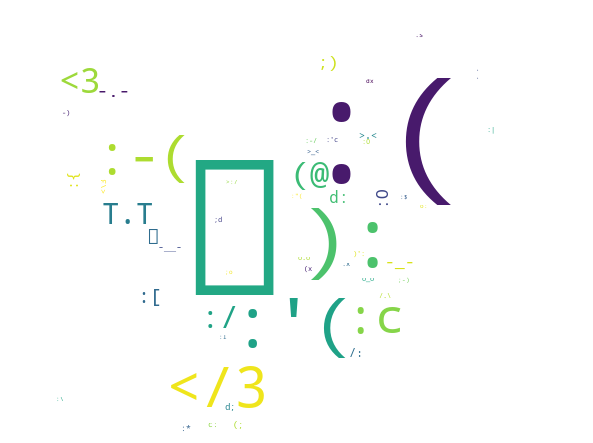
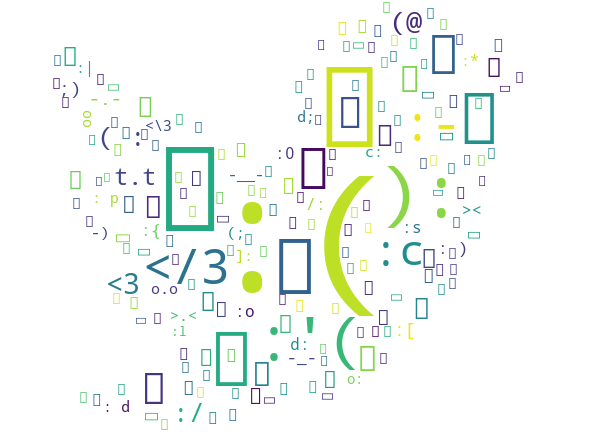
Ultimata la procedura di map reduce in mongo db + salvataggio conteggi

diff --git a/Codice/Master/tweet_processing.py b/Codice/Master/tweet_processing.py
@@ -5,6 +5,37 @@ from nltk import word_tokenize, pos_tag
 from nltk.corpus import wordnet
 import emoji
 
+#punctuations
+def get_punctuations():
+    custom_punctuations = punctuations
+    custom_punctuations.append('–')
+    custom_punctuations.append('—')
+    custom_punctuations.append('–')
+    custom_punctuations.append('¿')
+    custom_punctuations.append('؟')
+    custom_punctuations.append('…')
+    custom_punctuations.append('‘')
+    custom_punctuations.append('’')
+    custom_punctuations.append('“')
+    custom_punctuations.append('”')
+    custom_punctuations.append('«')
+    custom_punctuations.append('»')
+    custom_punctuations.append('§')
+    custom_punctuations.append('©')
+    custom_punctuations.append('*')
+    custom_punctuations.append('^')
+    custom_punctuations.append('%')
+    custom_punctuations.append('#')
+    custom_punctuations.append('•')
+    custom_punctuations.append('|')
+    custom_punctuations.append('~')
+    custom_punctuations.append(',')
+    custom_punctuations.append('.')
+
+    return custom_punctuations
+
+
+custom_punctuations = get_punctuations()
 lemmatizer = WordNetLemmatizer()
 
 client_master = None
@@ -21,7 +52,7 @@ def remove_nick_and_url(line):
 
 
 def remove_punctuation(line):
-    for punctuation in punctuations:
+    for punctuation in custom_punctuations:
         # l'apice, dato che potrebbe essere parte integrante di una parola, va gestito in maniera differente
         if punctuation != "'":
             line = line.replace(punctuation, " ")
@@ -30,11 +61,8 @@ def remove_punctuation(line):
     line = line.replace("'s ", " ")
     line = line.replace(" '", " ")
 
-    return line
-
-
-def remove_digits(line):
-    return ''.join(" " if c.isdigit() else c for c in line)
+    #remove digits
+    return ''.join(c for c in line if not c.isdigit())
 
 
 def substitute_slangs(line, slang_dict):
@@ -54,6 +82,10 @@ def substitute_slangs(line, slang_dict):
 def substitute_contractions(line):
     for contraction in contractions:
         line = line.replace(" " + contraction + " ", " " + contractions[contraction] + " ")
+
+    #do a second swipe
+    for contraction in contractions:
+        line = line.replace(contraction, contractions[contraction])
 
     return line
 
@@ -124,17 +156,15 @@ def process_tweet(line, emoticon_list, slang_dict, stop_word_list):
     line_emoticon_list.extend(standard_emoji_list)
     del standard_emoji_list
 
-    #todo come gestire i negativi?
-    #come gestire i verbi composti ? (fired up)
-    line = remove_punctuation(line)
-    line = remove_digits(line)
-    line = line.lower()
+    line = remove_punctuation(line).lower()
 
     line = substitute_contractions(line)
     line = substitute_slangs(line, slang_dict)
+    line = line.replace("'", " ")
 
     tokens = word_tokenize(line)
     lemmas = lemmatize_tokens(tokens)
+
     lemmas = [word for word in lemmas if word not in stop_word_list]
 
     #print(tokens)

diff --git a/Codice/Master/create_clouds.py b/Codice/Master/create_clouds.py
@@ -20,26 +20,35 @@ def print_cloud(frequency_list, path, width, height):
 
 def make_clouds(setting_data, dbms):
     if dbms == 1:
+
         mongos_data = setting_data
         client_master = pymongo.MongoClient(mongos_data["Address"], mongos_data["Port"])
         db = client_master['TwitterEmotions']
         col = db.WordCount
-        emotion_list = []
+
+        emotion_list = {}
         for document in col.find({}):
-            emotion_list.append({"Emotion": document["_id"], "Words": document["values"]})
+            emotion = document["_id"]['Emotion']
+
+            if emotion not in emotion_list:
+                emotion_list[emotion] = []
+
+            emotion_list[emotion].append(document)
+
         for emotion in emotion_list:
             words = {}
             total = 0
-            for word in emotion["Words"]:
-                if int(word['count']) >= 5:
-                    words.update({word['word']: int(word['count'])})
-                    total += int(word['count'])
+            for word in emotion_list[emotion]:
+                if int(word['Count']) >= 5:
+                    words.update({word['_id']['Word']: int(word['Count'])})
+                    total += int(word['Count'])
             for key in words:
                 words.update({key: int(words[key]) / total})
 
-            print_cloud(words, "words_" + emotion["Emotion"], 1000, 1000)
-            print("Generata word cloud delle parole per l'emozione " + emotion["Emotion"])
+            print_cloud(words, "words_" + emotion, 1000, 1000)
+            print("Generata word cloud delle parole per l'emozione " + emotion)
 
+        #hashtag
         col = db.HashtagCount
         emotion_list = []
         for document in col.find({}):
@@ -57,6 +66,7 @@ def make_clouds(setting_data, dbms):
             print_cloud(hashtags, "hashtags_" + emotion["Emotion"], 1000, 1000)
             print("Generata word cloud degli hashtag per l'emozione " + emotion["Emotion"])
 
+        #emoticons
         col = db.EmoticonCount
         emotion_list = []
         for document in col.find({}):

diff --git a/Codice/Master/mongo_db_utils.py b/Codice/Master/mongo_db_utils.py
@@ -2,6 +2,7 @@ import pymongo, json
 import tweet_processing as tp
 import resource_initializer as ri
 
+
 def preprocess_all_tweets(ShardAddress, ShardPort):
 
     #get mongos data
@@ -89,23 +90,29 @@ def findTweet(col):
 
 
 
-def initialise_cluster(mongos_data):
+def initialise_cluster(mongos_data, skip_tweets = True):
 
     client_master = pymongo.MongoClient(mongos_data["Address"], mongos_data["Port"])
     db = client_master["TwitterEmotions"]
 
     print('Inserting neg words')
     load_negative_word(db)
+
     print('Inserting slang')
     load_slang(db)
+
     print('Inserting stop words')
     load_stopwords(db)
+
     print('Inserting emoji and emoticons')
     load_emojii_emoticon(db)
-    print('Inserting tweets')
-    load_tweet(db)
+
+    if not skip_tweets:
+        print('Inserting tweets')
+        load_tweet(db)
+
     print('Inserting word resources')
-    load_emotions(db)
+    load_resources(db)
 
 
 
@@ -158,26 +165,24 @@ def load_tweet(db):
     col.insert_many(tweets)
 
 
-def load_emotions(db):
+def load_resources(db):
 
-    col = db.WordResources
+    col = db.WordCount
     col.delete_many({})
 
-    word_counts = {}
+    word_counts = []
     for row in ri.load_emotions():
 
         emotion = row[0]
-        if emotion not in word_counts:
-            word_counts[emotion] = []
 
-        word_counts[emotion].append({'Word': row[1], 'Count': 0, "FlagEmoSN": row[2],
+        word_counts.append({"_id" : {"Emotion" : emotion, 'Word': row[1] }, 'Count': 0, "FlagEmoSN": row[2],
                       "FlagNRC": row[3], "FlagSentisense": row[4]})
 
-    documents = []
-    for key in word_counts:
-        documents.append({"Emotion": key, "Words": word_counts[key]})
+    #documents = []
+    #for key in word_counts:
+    #    documents.append({"Emotion": key, "Words": word_counts[key]})
 
-    col.insert_many(documents)
+    col.insert_many(word_counts)
 
 
 

diff --git a/Codice/Master/resource_initializer.py b/Codice/Master/resource_initializer.py
@@ -256,7 +256,10 @@ OthersEmoji = [u'\U0001F004', u'\U0001F0CF', u'\U0001F300', u'\U0001F301', u'\U0
                u'\U0001F630', u'\U0001F631', u'\U0001F632', u'\U0001F633', u'\U0001F635', u'\U0001F637', u'\U0001F638',
                u'\U0001F639', u'\U0001F63A', u'\U0001F63B', u'\U0001F63C', u'\U0001F63D', u'\U0001F63E', u'\U0001F63F',
                u'\U0001F640', u'\U0001F645', u'\U0001F646', u'\U0001F647', u'\U0001F648', u'\U0001F649', u'\U0001F64A',
-               u'\U0001F64B', u'\U0001F64C', u'\U0001F64E', u'\U0001F64F', u'\U0001F64F']
+               u'\U0001F64B', u'\U0001F64C', u'\U0001F64E', u'\U0001F64F', u'\U0001F64F',
+               u'\U0001f697',u'\U0001f560',u'\U0001f699',u'\U0001f697',u'\U0001f695',u'\U0001f69b',u'\U0001f69a',
+               u'\U0001f693',u'\U0001f690',u'\U0001f69c',u'\U0001f69a',u'\U0001f69b',u'\U0001f691',u'\U0001f690',
+               u'\U0001f692',u'\U0001f634',u'\U0001f6a3',u'\U0001f691','❤','♥']
 
 punctuations = ["[", ",", "?", "!", ".", ";", ":", "\\", "/", "(", ")", "&", "-", "_", "+", "=", "<", ">", "]", "{",
                 "}", "@", "..", "...", "....", "<<", ">>", "'", '"', '']

diff --git a/Codice/Master/mongo_primary_node.py b/Codice/Master/mongo_primary_node.py
@@ -2,6 +2,7 @@ import requests
 import mongo_db_utils as mu
 import threading
 import pymongo
+from pymongo import UpdateOne
 
 def run_twitter_analisys(setting_data):
 
@@ -39,13 +40,18 @@ def map_reduce(setting_data):
     db = client_master['TwitterEmotions']
 
     # words
-    db.WordCount.delete_many({})
+    db.WordCount.delete_many({ "FlagEmoSN": 0, "FlagNRC": 0, "FlagSentisense":0})
     pipeline = [
         {"$unwind": "$Words"},
-        {"$group": {"_id": {"emotion": "$Emotion", "word": "$Words"}, "count": {"$sum": 1}}},
-        {"$group": {"_id": "$_id.emotion", "values": {"$push": {"word": "$_id.word", "count": "$count"}}}}
+        {"$group": {"_id": {"Emotion": "$Emotion", "Word": "$Words"}, "Count": {"$sum": 1}}}
     ]
-    db.WordCount.insert_many(list(db.Tweet.aggregate(pipeline, allowDiskUse=True)))
+
+
+    bulk_requests = []
+    for word_count in list(db.Tweet.aggregate(pipeline, allowDiskUse=True)):
+        bulk_requests.append(UpdateOne({"_id" : word_count['_id'] }, {'$set': word_count}, upsert=True))
+
+    db.WordCount.bulk_write(bulk_requests)
 
     # emoticons
     db.EmoticonCount.delete_many({})

diff --git a/Codice/Master/relational_db_utils.py b/Codice/Master/relational_db_utils.py
@@ -58,8 +58,6 @@ def load_tweet(conn, cursor):
     sql_insert = "insert into Tweet(Text, Emotion) VALUES (?, ?)"
     tweets = ri.load_tweet()
 
-    print('Inserting tweets...')
-
     n_tweets = len(tweets)
     batch_size = 120000 # se questo valore è troppo grande si rischia di far andare in errore l'inserimento
     curr_number = 0
